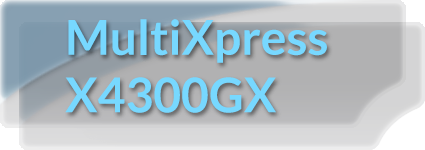
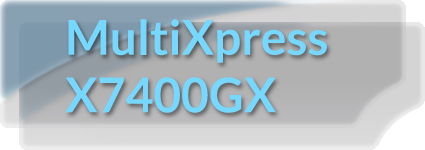
showcase camera | RT | fixed header | Right view | ModelViewer | OnModelSelected

Changed region(s): [[0.2141, 0.5067, 0.3671, 0.7733]]

diff --git a/Assets/Scripts/Copier/ModelViewer.cs b/Assets/Scripts/Copier/ModelViewer.cs
@@ -4,10 +4,22 @@ using System.Collections.Generic;
 
 namespace CopierAR
 {
+    public class ModelSelectedEventArgs : System.EventArgs
+    {
+        public Copier Copier;
+    }
+
     public class ModelViewer : MonoBehaviour
     {
+        public delegate void ModelSelectedEventHandler(object sender, ModelSelectedEventArgs args);
+        public static event ModelSelectedEventHandler OnModelSelected;
+
         public string CopierDatabasePath = "Data/CopierDatabase";
         public CopierDatabase CopierDatabase = null;
+
+        public Transform LifeScaleParent;
+        public GameObject ModelGroup;
+        public Camera ShowcaseCamera;
 
         public Dictionary<int, Copier> CopierList = new Dictionary<int, Copier>();
         public Dictionary<int, GameObject> ModelList = new Dictionary<int, GameObject>();
@@ -18,6 +30,11 @@ namespace CopierAR
         // Use this for initialization
         void Start()
         {
+            Initialize();
+        }
+
+        public bool Initialize()
+        {
             if (CopierDatabase == null)
             {
                 CopierDatabase = Resources.Load(CopierDatabasePath) as CopierDatabase;
@@ -26,36 +43,73 @@ namespace CopierAR
             m_viewIndex = 0;
             m_maxViewIndex = CopierDatabase.copiers.Length - 1;
 
-            // Clear all model children
-            this.transform.Clear();
-
-            // Initialize copier and model list
+            // Clear lists
+            ModelGroup.transform.Clear();
             CopierList.Clear();
             ModelList.Clear();
+
+            // Initialize copier and model list
             for (int i = 0; i < CopierDatabase.copiers.Length; i++)
             {
                 CopierList.Add(i, CopierDatabase.copiers[i]);
 
-                GameObject model = (GameObject)Instantiate(CopierDatabase.copiers[i].CopierPrefab, this.transform);
+                GameObject model = (GameObject)Instantiate(CopierDatabase.copiers[i].CopierPrefab, ModelGroup.transform);
                 ModelList.Add(i, model);
                 model.SetActive(false);
             }
+
+            // De-activate showcase camera
+            ShowcaseCamera.enabled = false;
+
+            return true;
+        }        
+
+        public void Showcase()
+        {            
+            ModelGroup.transform.SetParent(null);
+            ShowcaseCamera.enabled = true;
+        }
+
+        public void LifeScale()
+        {
+            ModelGroup.transform.SetParent(LifeScaleParent);
+            ShowcaseCamera.enabled = false;
         }
 
         public void NextModel()
         {
+            m_viewIndex++;
+            m_viewIndex %= CopierDatabase.copiers.Length;
+            SelectModel(m_viewIndex); 
+        }
 
+        public void PreviousModel()
+        {
+            m_viewIndex--;
+            m_viewIndex %= CopierDatabase.copiers.Length;
+            SelectModel(m_viewIndex);
         }
 
         private void SelectModel(int index)
         {
+            foreach (GameObject model in ModelList.Values)
+            {
+                model.SetActive(false);
+            }
 
-        }
+            GameObject _model = null;
+            if (ModelList.TryGetValue(index, out _model))
+            {
+                ModelList[index].SetActive(true);
+            }
 
-        // Update is called once per frame
-        void Update()
-        {
-
+            if (OnModelSelected != null)
+            {
+                OnModelSelected(this, new ModelSelectedEventArgs
+                {
+                    Copier = CopierList[index]
+                });
+            }
         }
     }
 }

diff --git a/Assets/Scripts/RightPanel.cs b/Assets/Scripts/RightPanel.cs
@@ -2,40 +2,89 @@
 using UnityEngine.UI;
 using System.Collections;
 
-public class RightPanel : MonoBehaviour
+namespace CopierAR
 {
-    public GameObject InfoPanel;
-    public CopierController PhotocopierController;
-
-    public bool Initialize()
+    public class RightPanel : MonoBehaviour
     {
-        if (PhotocopierController != null)
+        public Image CopierLabel;
+        public Image CopierInfo;
+
+        public Button PreviousBtn;
+        public Button NextBtn;
+
+        public ModelViewer ModelViewer;
+
+        public CopierController PhotocopierController;
+
+        private CanvasGroup _canvasGroup;
+        private CanvasGroup canvasGroup
         {
-            return PhotocopierController.Initialize();
+            get
+            {
+                if (_canvasGroup == null)
+                {
+                    _canvasGroup = GetComponent<CanvasGroup>();
+                }
+
+                return _canvasGroup;
+            }
         }
-        else
+
+        void OnEnable()
         {
-            Debug.LogWarning("PhotocopierController is null!");
-            return false;
+            ModelViewer.OnModelSelected += ModelViewer_OnModelSelected;
+
+            PreviousBtn.onClick.AddListener(() => { ModelViewer.PreviousModel(); } );
+            NextBtn.onClick.AddListener(() => { ModelViewer.NextModel(); });
+        }
+
+        void OnDisable()
+        {
+            ModelViewer.OnModelSelected -= ModelViewer_OnModelSelected;
+
+            PreviousBtn.onClick.RemoveAllListeners();
+            NextBtn.onClick.RemoveAllListeners();
+        }
+
+        private void ModelViewer_OnModelSelected(object sender, ModelSelectedEventArgs args)
+        {
+            Copier copier = (Copier)args.Copier;
+            CopierLabel.sprite = copier.CopierLabel;
+            CopierInfo.sprite = copier.CopierInfo;
+        }
+
+        public bool Initialize()
+        {
+            if (PhotocopierController != null)
+            {
+                return PhotocopierController.Initialize();
+            }
+            else
+            {
+                Debug.LogWarning("PhotocopierController is null!");
+                return false;
+            }
+        }
+
+        public void ToggleInfoPanel(bool value = true)
+        {
+            //if (CopierLabel != null)
+            //{
+            //    CopierLabel.CrossFadeAlpha(value == true ? 1 : 0, 0.5f, true);                
+            //}
+            //if (CopierInfo != null)
+            //{
+            //    CopierInfo.CrossFadeAlpha(value == true ? 1 : 0, 0.5f, true);
+            //}
+
+            canvasGroup.alpha = value ? 1 : 0;            
+        }
+
+        public void SetAsMain()
+        {
+            gameObject.SetActive(true);
+            transform.SetAsLastSibling();
         }
     }
 
-    public void ToggleInfoPanel(bool value = true)
-    {
-        if (InfoPanel != null)
-        {
-            InfoPanel.SetActive(value);
-        }
-        else
-            Debug.LogWarning("InfoPanel is null!");
-
-        PhotocopierController.CanvasGroup.alpha = value ? 0 : 1;
-        PhotocopierController.CanvasGroup.interactable = value ? false : true;
-    }
-
-    public void SetAsMain()
-    {
-        gameObject.SetActive(true);
-        transform.SetAsLastSibling();
-    }
 }

diff --git a/Assets/Scripts/Copier/CopierDatabase.cs b/Assets/Scripts/Copier/CopierDatabase.cs
@@ -13,7 +13,7 @@ namespace CopierAR
     {
         public string CopierName;
         public GameObject CopierPrefab;
-        public Texture CopierHeader;
-        public Texture CopierDescription;
+        public Sprite CopierLabel;
+        public Sprite CopierInfo;
     }
 }
